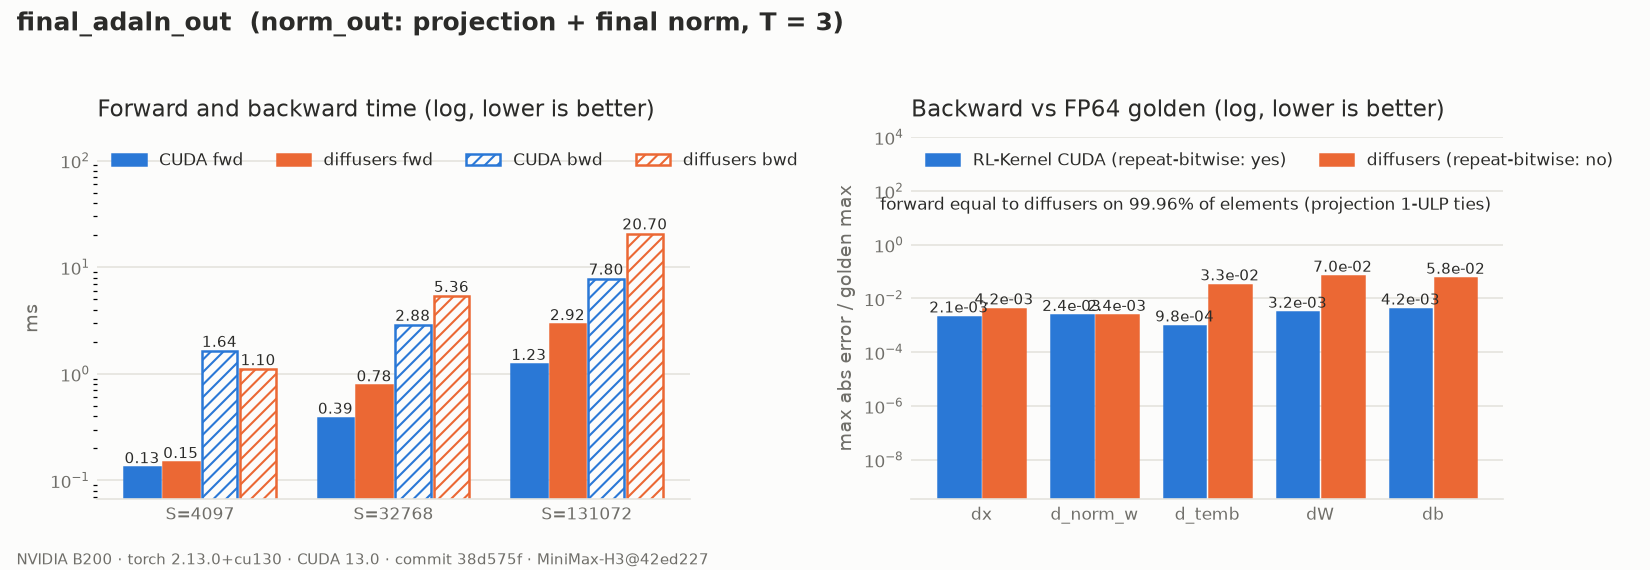
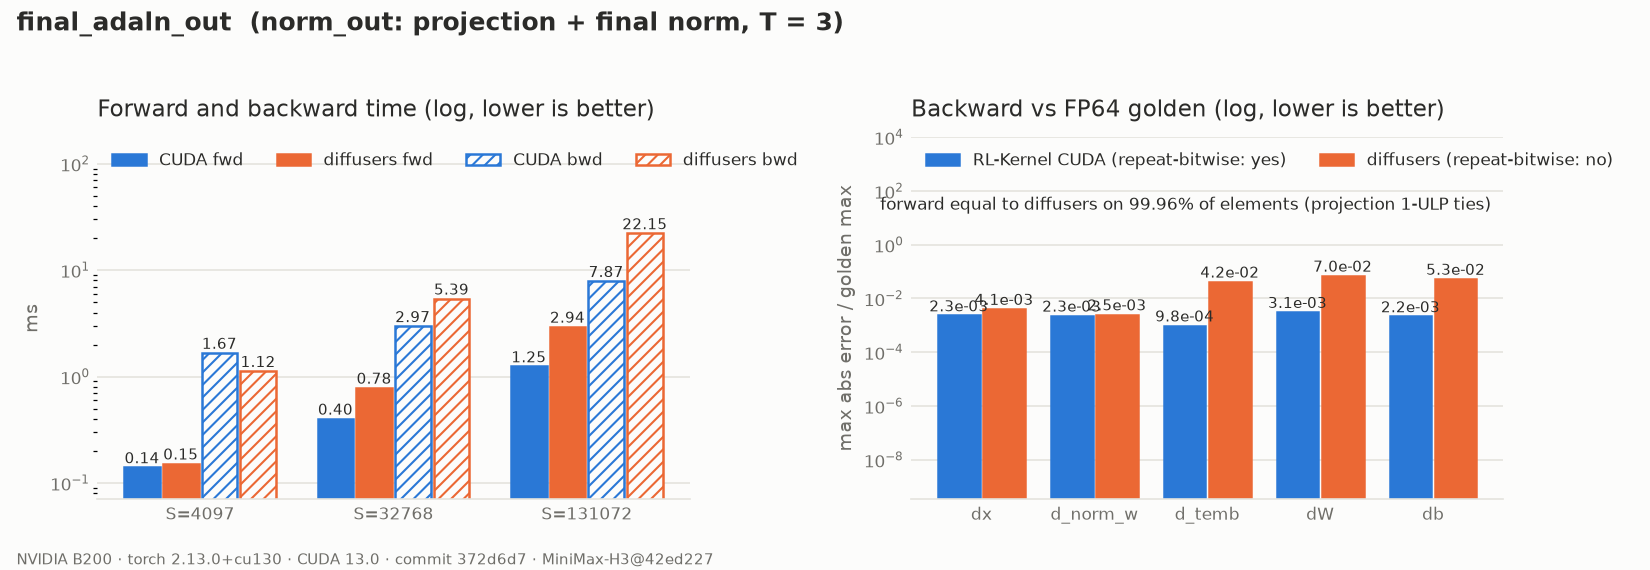
docs(h3): regenerate final AdaLN evidence against FP64 gradients

diff --git a/docs/operators/h3-final-adaln-out.md b/docs/operators/h3-final-adaln-out.md
@@ -40,8 +40,8 @@ out = op(x, norm_out_norm_w, temb, norm_out_linear_w, norm_out_linear_b, timeste
   summation tree versus cuBLAS. Rows are batch- and position-invariant.
 - **Backward.** One autograd node, so the table gradient (FP32 segment sums) goes straight into
   the projection backward without an extra BF16 rounding:
-  - `d_temb`, `dW` and `db` are 13–57× closer to FP64 than diffusers, whose error varies from
-    run to run because it rounds the table gradient to BF16 and accumulates it with
+  - `d_temb`, `dW` and `db` are 22–43× closer to FP64 in the recorded run than diffusers,
+    whose error varies from run to run because it rounds the table gradient to BF16 and accumulates it with
     `index_select` atomics;
   - `dx` and `d_norm_w` are at the BF16 rounding level for both;
   - every gradient is repeat-bitwise.
@@ -59,9 +59,9 @@ B200, B = 1, T = 3, pinned `norm_out` weights:
 
 | S | CUDA fwd | diffusers fwd | CUDA bwd | diffusers bwd |
 | --- | --- | --- | --- | --- |
-| 4097 | 0.13 ms | 0.15 ms | 1.64 ms | 1.10 ms |
-| 32768 | 0.39 ms | 0.78 ms | 2.88 ms | 5.36 ms |
-| 131072 | 1.23 ms | 2.92 ms | 7.80 ms | 20.7 ms |
+| 4097 | 0.14 ms | 0.15 ms | 1.67 ms | 1.12 ms |
+| 32768 | 0.40 ms | 0.78 ms | 2.97 ms | 5.39 ms |
+| 131072 | 1.25 ms | 2.94 ms | 7.87 ms | 22.2 ms |
 
 At small S the backward is dominated by fixed setup: the stable sort for the segment sums and the
 projection backward.
@@ -70,13 +70,15 @@ projection backward.
 
 ![final_adaln_out on B200: latency and backward accuracy](../usage/evidence/h3-final-adaln-out-b200/figure.png)
 
-There are two data files, both written from a clean tree at commit `38d575f`:
+There are two data files:
 
 - [`report.json`](../usage/evidence/h3-final-adaln-out-b200/report.json): op timings, the
-  forward-equality fraction, row invariance and backward accuracy.
+  forward-equality fraction, row invariance and backward accuracy. Regenerated from a clean
+  tree at `372d6d7`, with FP64 leaves and upstream gradients and explicit BF16 forward boundaries.
 - [`chain_replay.json`](../usage/evidence/h3-final-adaln-out-b200/chain_replay.json): the
   whole conditioning chain (timestep → … → norm_out) replayed stage by stage over
-  T in {1, 2, 3, 4} × S in {3, 257, 4097, 32768}, with the backward replay.
+  T in {1, 2, 3, 4} × S in {3, 257, 4097, 32768}, with the backward replay. Written from a clean
+  tree at `38d575f`.
 
 ## Tests
 
